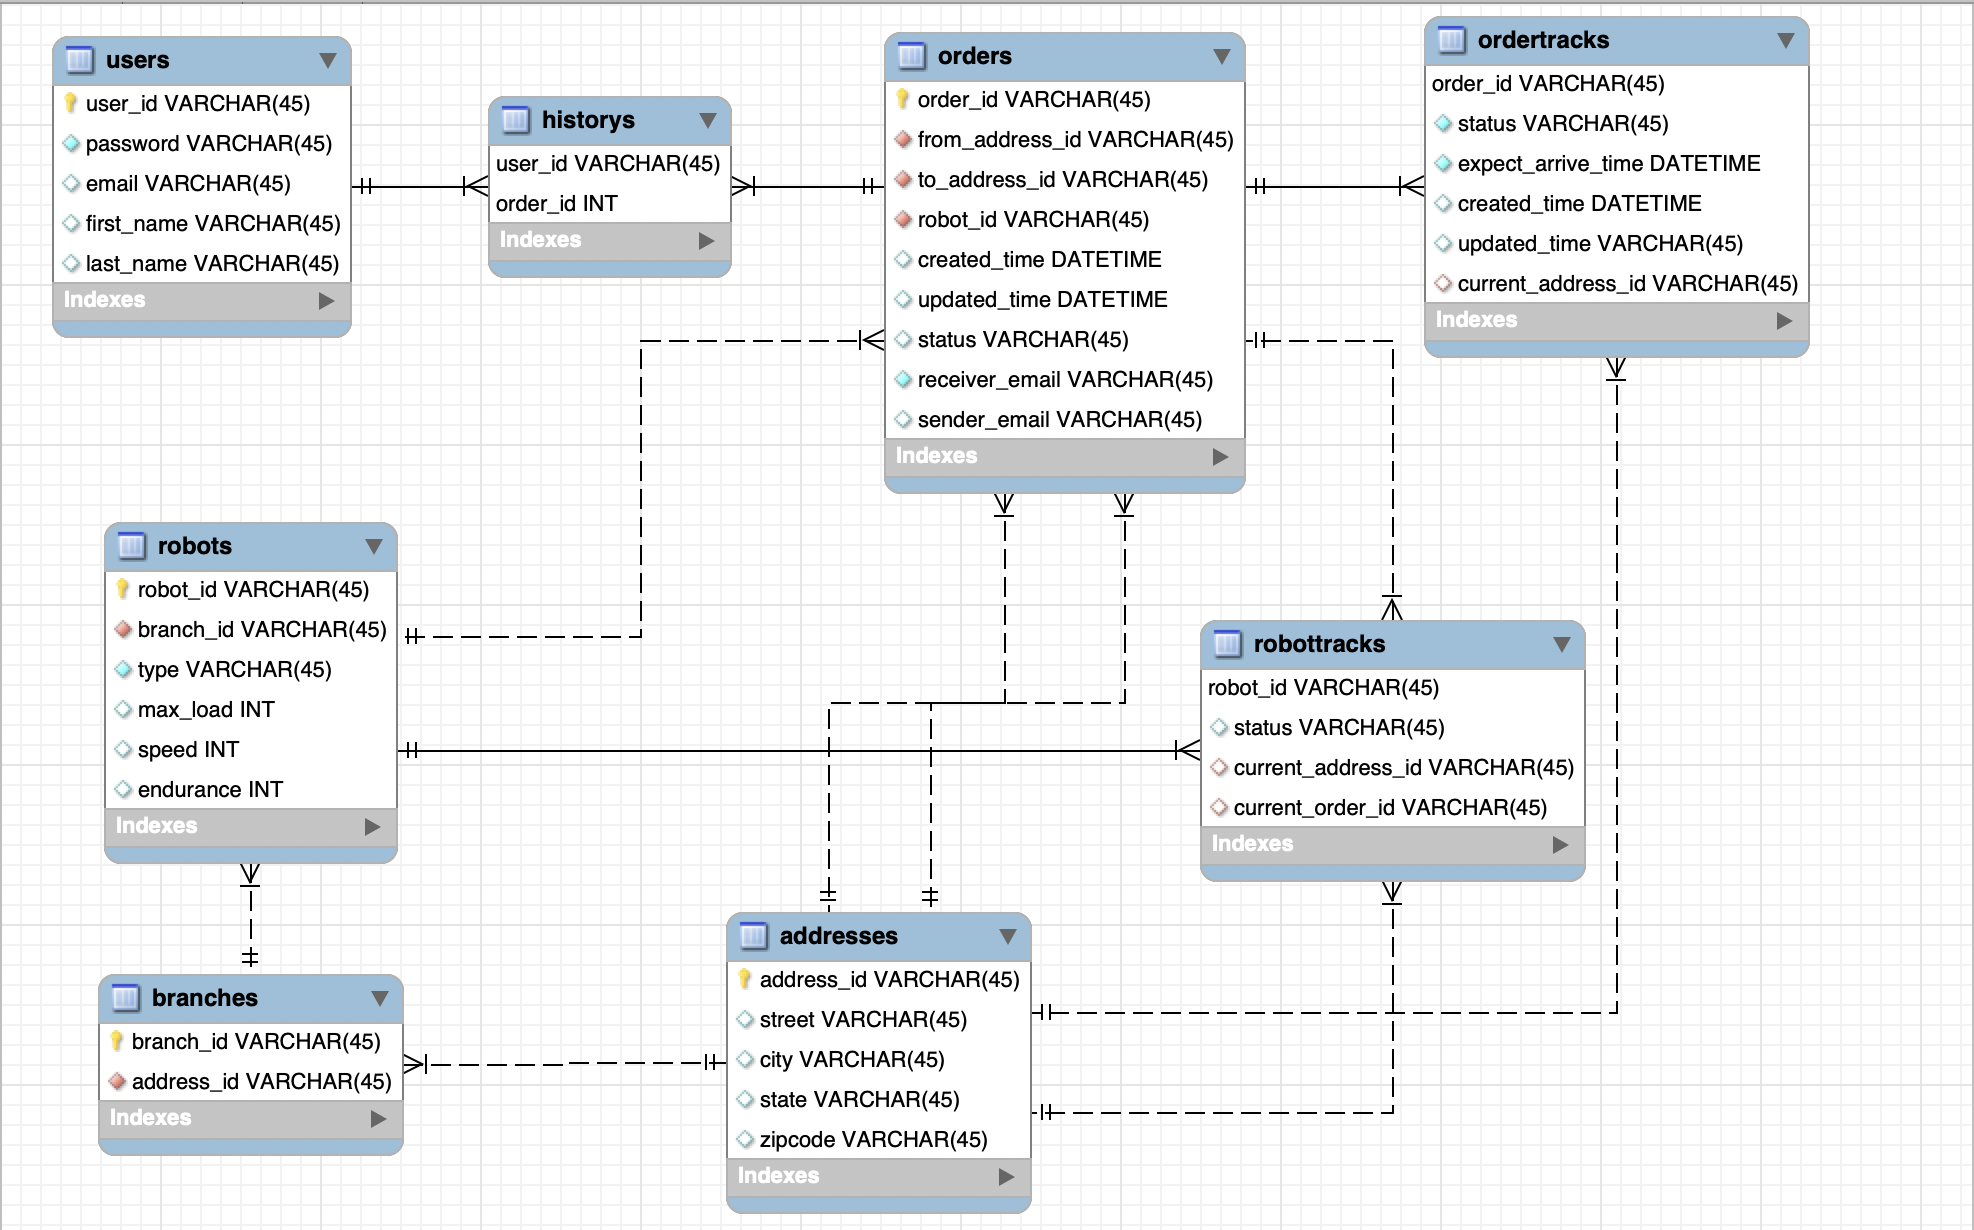
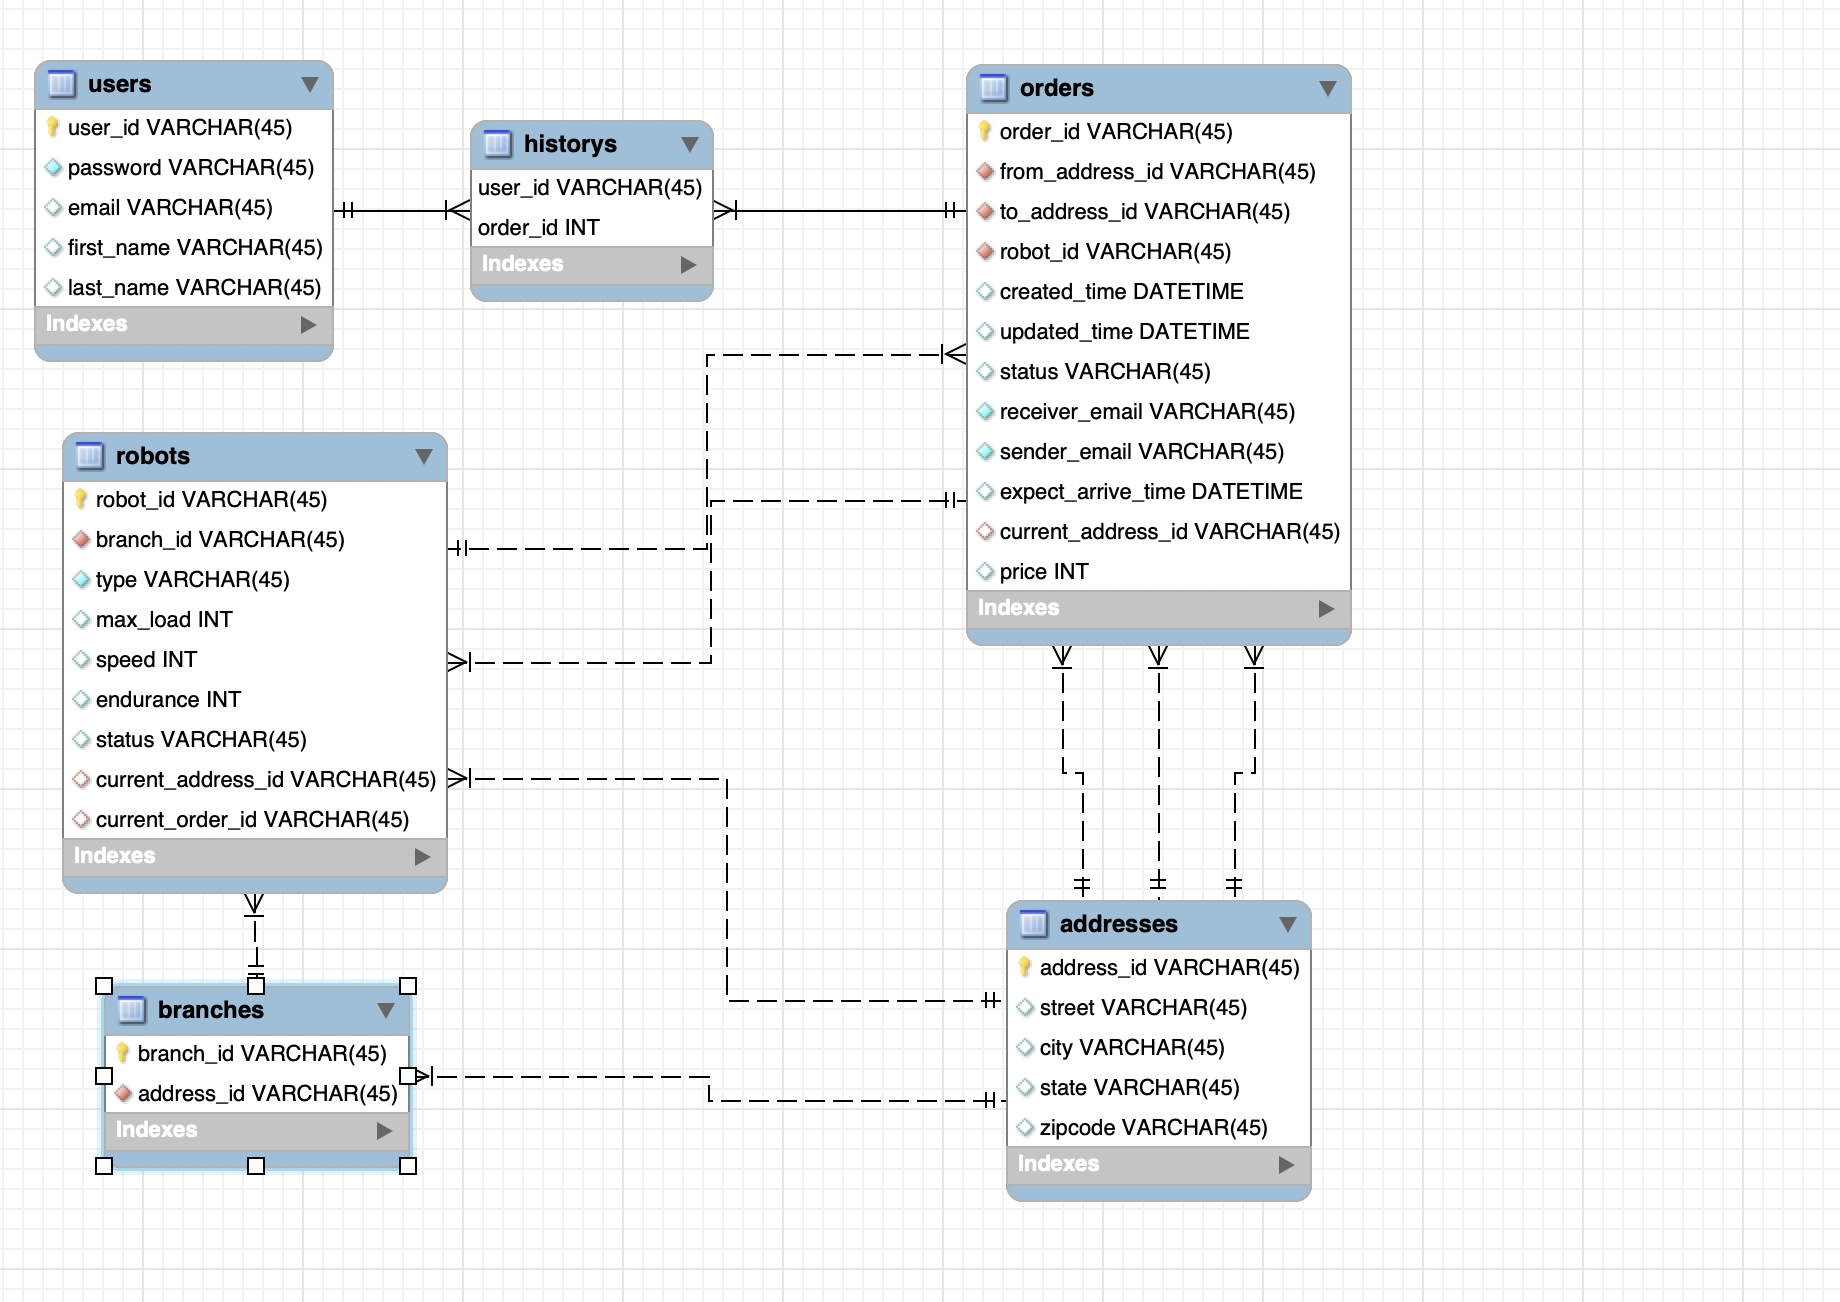
combine tables in sql and modify code in creating table

diff --git a/team3/src/db/cloudsql/CloudSQLTableCreation.java b/team3/src/db/cloudsql/CloudSQLTableCreation.java
@@ -29,6 +29,14 @@ public class CloudSQLTableCreation {
 			sql = "DROP TABLE IF EXISTS historys";
 			statement.executeUpdate(sql);
 			
+//			sql = "IF (OBJECT_ID('dbo.FK_RobotOrder', 'F') IS NOT NULL)\n" + 
+//					"BEGIN\n" + 
+//					"    ALTER TABLE dbo.robots DROP CONSTRAINT FK_RobotOrder\n" + 
+//					"END";
+//			statement.executeUpdate(sql);
+			
+			//TODO add double constraints between robot and order?
+			
 			sql = "DROP TABLE IF EXISTS orders";
 			statement.executeUpdate(sql);
 			
@@ -81,8 +89,12 @@ public class CloudSQLTableCreation {
 					+ "max_load INT,"
 					+ "speed INT,"
 					+ "endurance INT,"
+					+ "status VARCHAR(255) NOT NULL,"
+					+ "current_address_id VARCHAR(255),"
+					+ "current_order_id VARCHAR(255),"
 					+ "PRIMARY KEY (robot_id),"
-					+ "FOREIGN KEY (branch_id) REFERENCES branches(branch_id)"
+					+ "FOREIGN KEY (branch_id) REFERENCES branches(branch_id),"	
+					+ "FOREIGN KEY (current_address_id) REFERENCES addresses(address_id)"
 					+ ")";
 			statement.executeUpdate(sql);
 			
@@ -94,14 +106,22 @@ public class CloudSQLTableCreation {
 					+ "created_time TIMESTAMP NOT NULL DEFAULT CURRENT_TIMESTAMP,"
 					+ "updated_time TIMESTAMP NOT NULL DEFAULT CURRENT_TIMESTAMP,"
 					+ "status VARCHAR(255),"
+					+ "price FLOAT,"
 					+ "receiver_email VARCHAR(255),"
 					+ "sender_email VARCHAR(255),"
+					+ "current_address_id VARCHAR(255),"
+					+ "expect_arrive_time TIMESTAMP DEFAULT CURRENT_TIMESTAMP,"
 					+ "PRIMARY KEY (order_id),"
 					+ "FOREIGN KEY (robot_id) REFERENCES robots(robot_id),"
 					+ "FOREIGN KEY (from_address_id) REFERENCES addresses(address_id),"
-					+ "FOREIGN KEY (to_address_id) REFERENCES addresses(address_id)"
+					+ "FOREIGN KEY (to_address_id) REFERENCES addresses(address_id),"
+					+ "FOREIGN KEY (current_address_id) REFERENCES addresses(address_id)"
 					+ ")";
 			statement.executeUpdate(sql);
+			
+//			sql = "ALTER TABLE robots "
+//					+ "ADD CONSTRAINT FK_RobotOrder"
+//					+ "ADD FOREIGN KEY (current_order_id) REFERENCES orders(order_id)";
 			
 			sql = "CREATE TABLE historys("
 					+ "user_id VARCHAR(255) NOT NULL,"
@@ -112,32 +132,7 @@ public class CloudSQLTableCreation {
 					+ ")";
 			statement.executeUpdate(sql);
 			
-			sql = "CREATE TABLE ordertracks("
-					+ "order_id VARCHAR(255) NOT NULL,"
-					+ "status VARCHAR(255),"
-					+ "expect_arrive_time TIMESTAMP,"
-					+ "created_time TIMESTAMP NOT NULL DEFAULT CURRENT_TIMESTAMP,"
-					+ "updated_time TIMESTAMP NOT NULL DEFAULT CURRENT_TIMESTAMP,"
-					+ "current_address_id VARCHAR(255),"
-					+ "PRIMARY KEY (order_id),"
-					+ "FOREIGN KEY (order_id) REFERENCES orders(order_id),"
-					+ "FOREIGN KEY (current_address_id) REFERENCES addresses(address_id)"
-					+ ")";
-			statement.executeUpdate(sql);
 			
-			sql = "CREATE TABLE robottracks ("
-					+ "robot_id VARCHAR(255) NOT NULL,"
-					+ "status VARCHAR(255),"
-					+ "current_address_id VARCHAR(255),"
-					+ "current_order_id VARCHAR(255),"
-					+ "PRIMARY KEY (robot_id),"
-					+ "FOREIGN KEY (robot_id) REFERENCES robots(robot_id),"
-					+ "FOREIGN KEY (current_address_id) REFERENCES addresses(address_id),"
-					+ "FOREIGN KEY (current_order_id) REFERENCES orders(order_id)"
-					+ ")";
-			statement.executeUpdate(sql);
-
-
 
 			// Step 4: insert fake user 1111/3229c1097c00d497a0fd282d586be050
 			sql = "INSERT INTO users VALUES('1111', '3229c1097c00d497a0fd282d586be050', 'John', 'Smith', 'laioffer_team3@gamil.com')";
